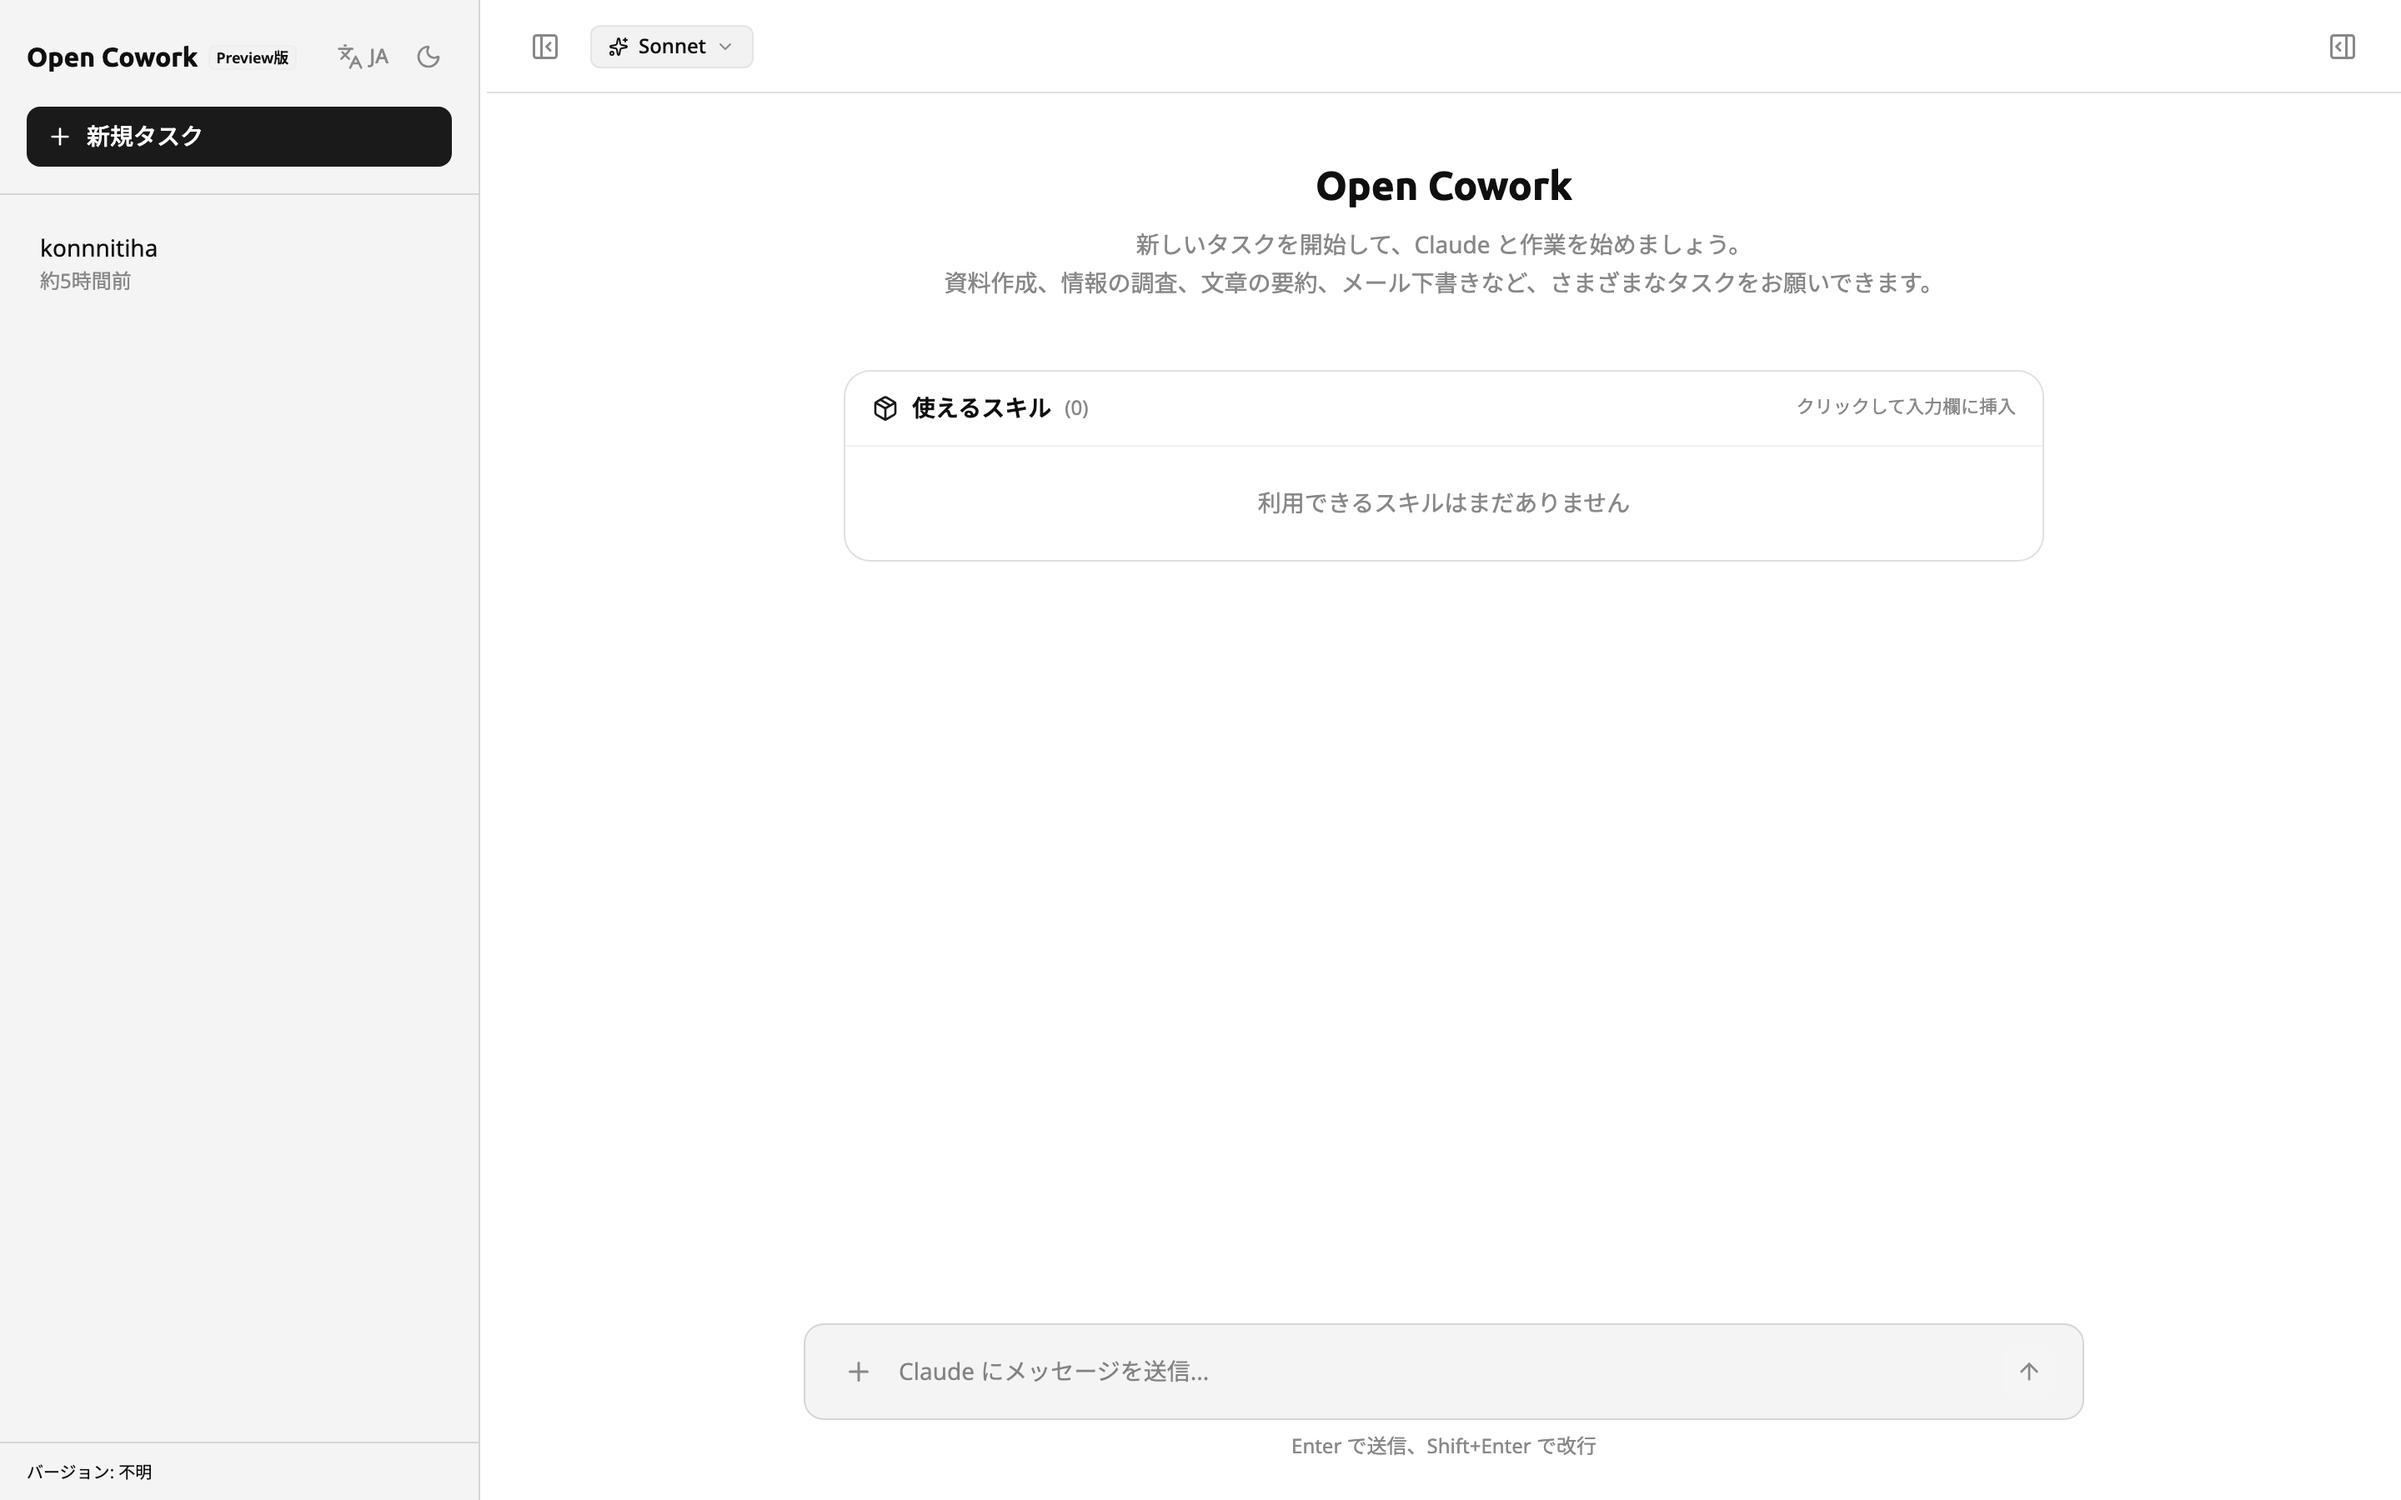
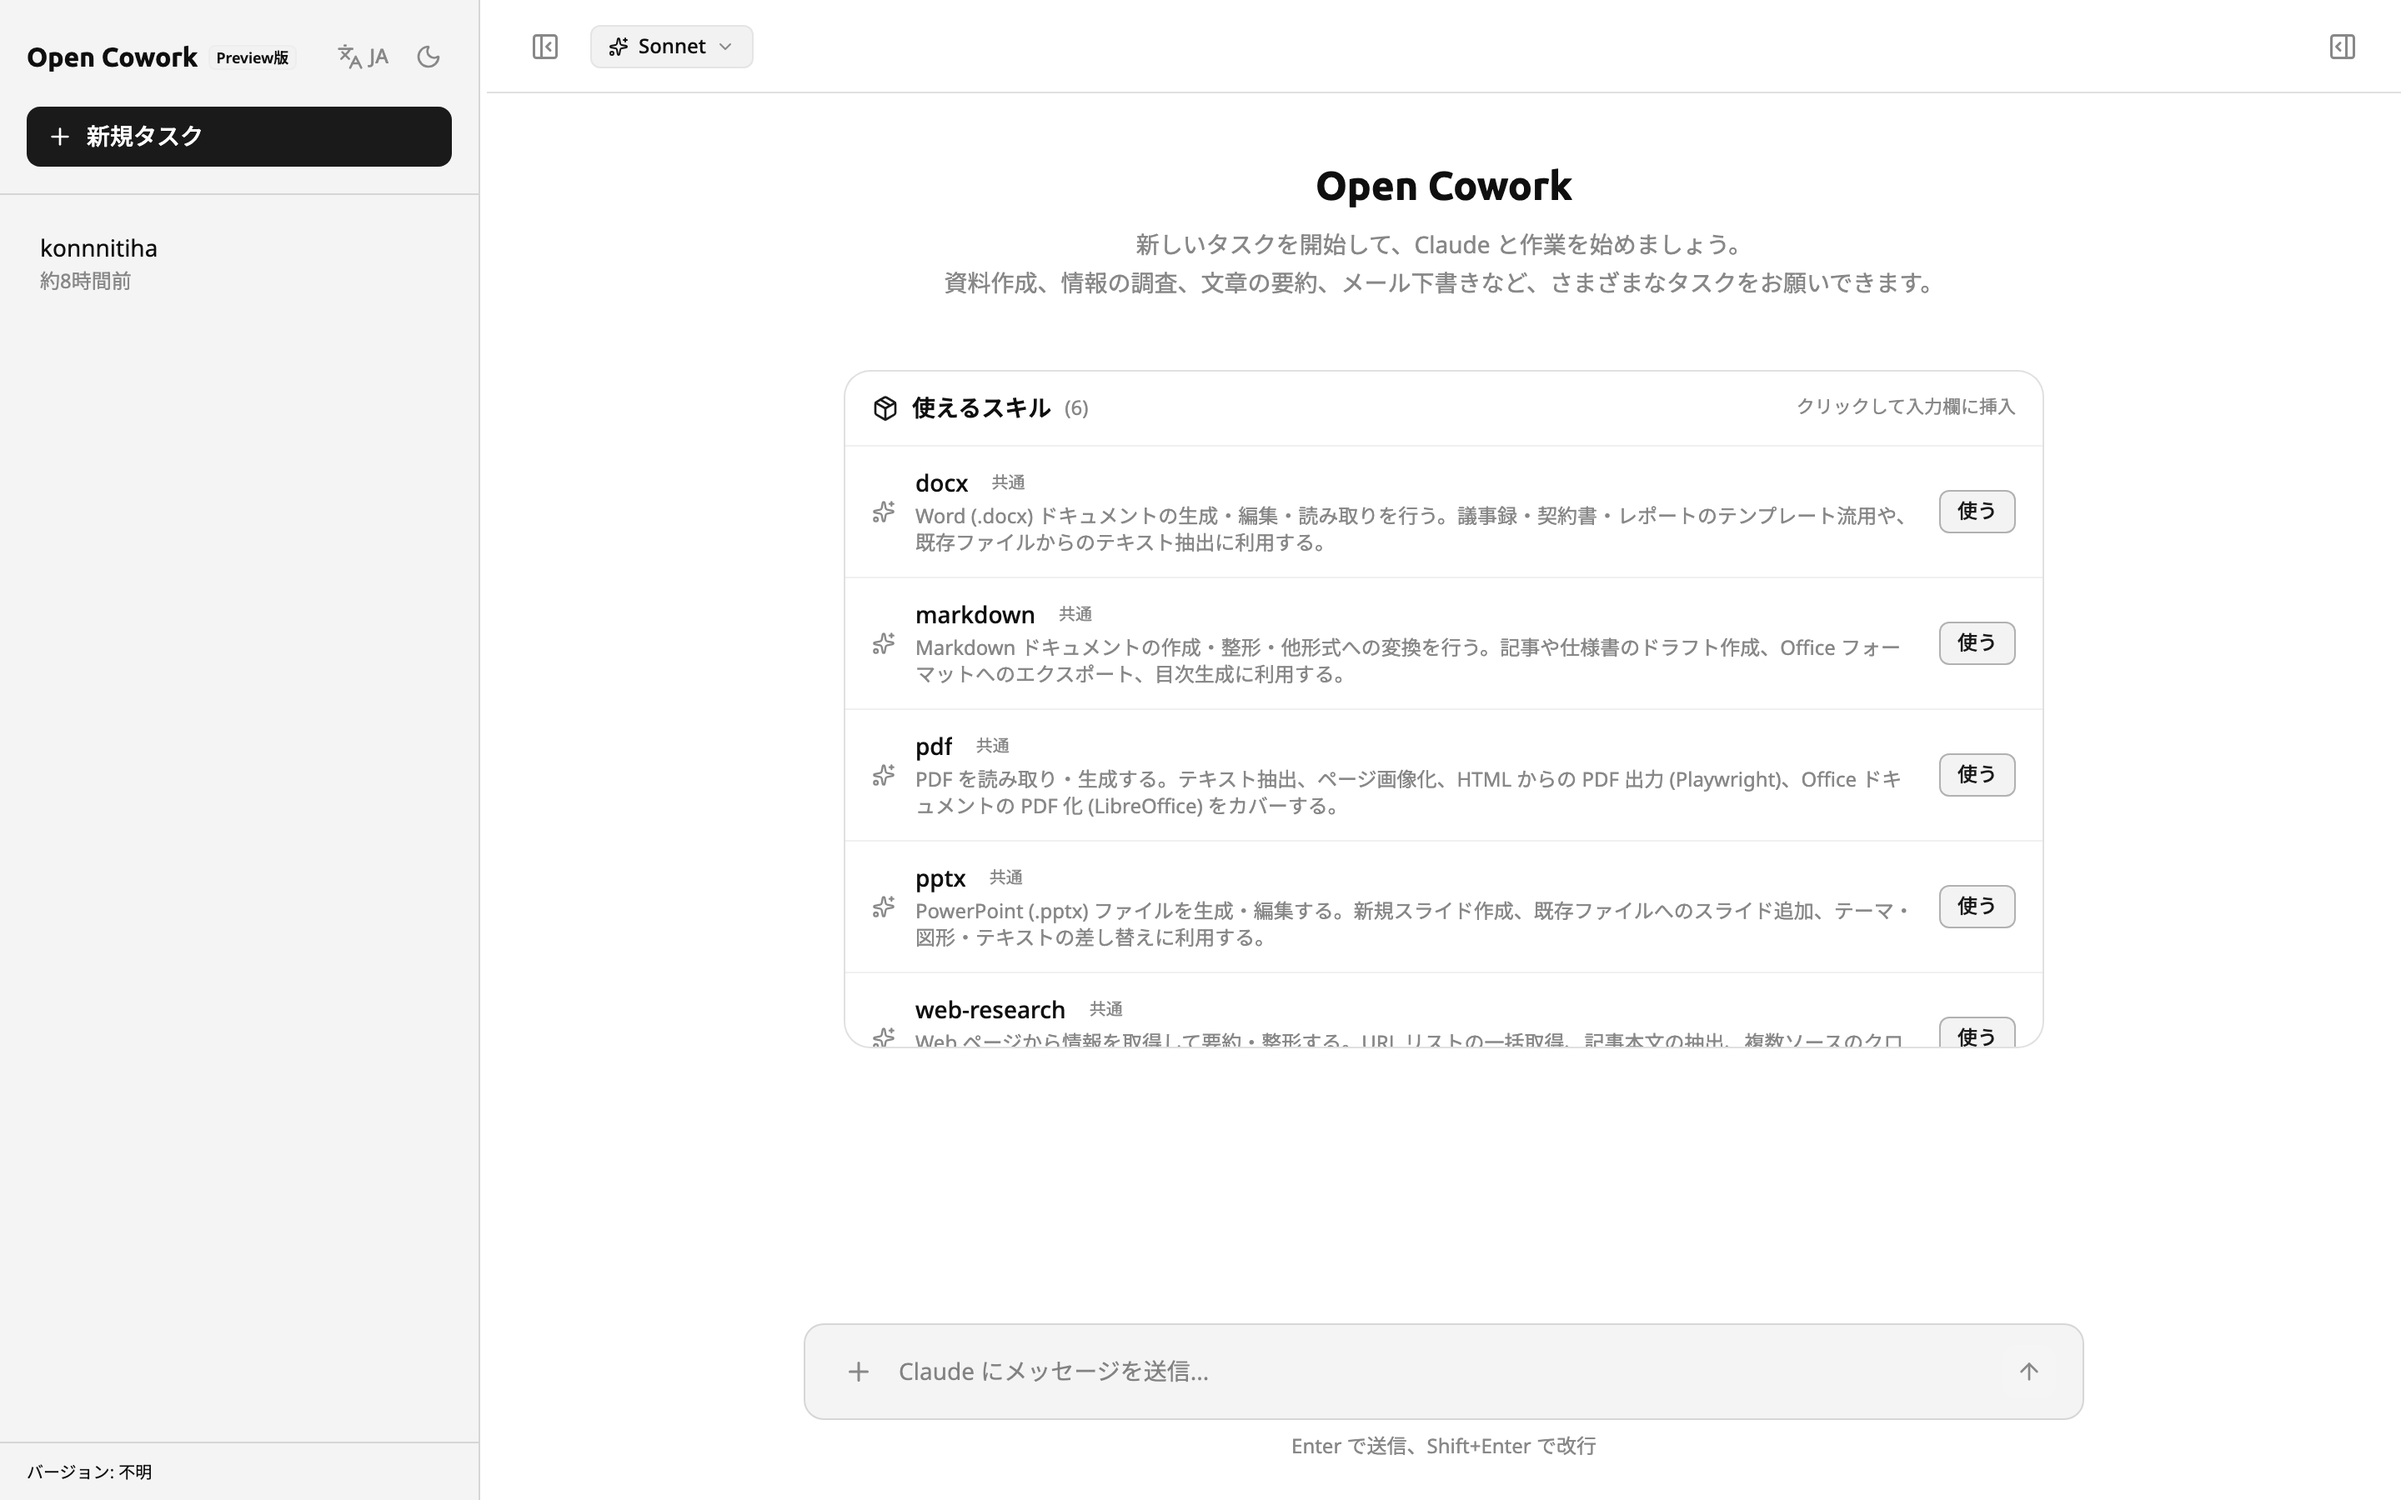
docs: ship 6 starter skills and refresh the README hero shot
- common-skills/skills/ にデフォルト同梱の 6 スキル (docx / markdown /
  pdf / pptx / web-research / xlsx) を追加。WelcomeScreen のスキル一覧が
  起動直後から表示される。
- .gitignore の skills 配下除外を解除し、common-skills/README.md を更新。
- scripts/screenshot.mjs はライトテーマ 1 枚のみ撮影するよう簡素化。
  README / README.ja.md からダーク版の画像を撤去。
- screenshot 用に @playwright/test をルート devDependencies に追加
  (ESM module 解決の都合で client/node_modules では届かないため)。

diff --git a/common-skills/skills/pdf/SKILL.md b/common-skills/skills/pdf/SKILL.md
@@ -1,0 +1,27 @@
+---
+name: pdf
+description: PDF を読み取り・生成する。テキスト抽出、ページ画像化、HTML からの PDF 出力 (Playwright)、Office ドキュメントの PDF 化 (LibreOffice) をカバーする。
+---
+
+# PDF スキル
+
+PDF ファイルの読み書きを行う。読み取りは `pdftotext` / `pdftoppm` (poppler-utils)、出力は Playwright (HTML → PDF) もしくは LibreOffice (Office → PDF) を使う。
+
+## 主な用途
+
+- 既存 PDF からのテキスト抽出 / ページごとの画像化
+- HTML 帳票 (markdown + テンプレート) を PDF として書き出す
+- docx / pptx / xlsx を PDF に変換
+
+## 推奨ツール
+
+| ツール | 用途 |
+|--------|------|
+| `pdftotext` | テキスト抽出 |
+| `pdftoppm` | ページを png にレンダリング |
+| Playwright (`page.pdf`) | サーバ側 API (`POST /api/export/pdf`) で HTML → PDF |
+| `soffice --headless --convert-to pdf` | Office → PDF |
+
+## 出力先
+
+生成した .pdf は `workdir/` 配下に保存する。

diff --git a/common-skills/skills/docx/SKILL.md b/common-skills/skills/docx/SKILL.md
@@ -1,0 +1,26 @@
+---
+name: docx
+description: Word (.docx) ドキュメントの生成・編集・読み取りを行う。議事録・契約書・レポートのテンプレート流用や、既存ファイルからのテキスト抽出に利用する。
+---
+
+# Word (docx) スキル
+
+Microsoft Word ドキュメント (.docx) を扱う。生成は Node.js (`docx`) と Python (`python-docx`) のどちらでも可能。
+
+## 主な用途
+
+- 議事録・週報・レポート等の構造化ドキュメント生成
+- 既存テンプレートの差し込み (フィールド置換)
+- docx → Markdown のテキスト抽出 (`pandoc` を呼ぶ)
+
+## 推奨ライブラリ
+
+| 言語 | ライブラリ | 用途 |
+|------|-----------|------|
+| Node.js | `docx` | コードベースでのドキュメント組み立て |
+| Python | `python-docx` | 既存 docx の段落・スタイル操作 |
+| CLI | `pandoc` | docx ↔ md / pdf 等の相互変換 |
+
+## 出力先
+
+生成した .docx は `workdir/` 配下に保存する。

diff --git a/common-skills/skills/pptx/SKILL.md b/common-skills/skills/pptx/SKILL.md
@@ -1,0 +1,25 @@
+---
+name: pptx
+description: PowerPoint (.pptx) ファイルを生成・編集する。新規スライド作成、既存ファイルへのスライド追加、テーマ・図形・テキストの差し替えに利用する。
+---
+
+# PowerPoint (pptx) スキル
+
+PowerPoint プレゼンテーション (.pptx) を生成・編集する。Node.js (`pptxgenjs`) と Python (`python-pptx`) を利用できる。
+
+## 主な用途
+
+- 提案資料・会議資料のスライド生成 (タイトル・本文・箇条書き・表)
+- 既存 pptx のテキスト差し替え・テンプレート流用
+- Markdown / アウトラインからの一括スライド化
+
+## 推奨ライブラリ
+
+| 言語 | ライブラリ | 用途 |
+|------|-----------|------|
+| Node.js | `pptxgenjs` | ゼロからのスライド生成 (グローバルインストール済み) |
+| Python | `python-pptx` | 既存テンプレートを開いて差分編集 |
+
+## 出力先
+
+生成した .pptx は `workdir/` 配下に保存する。

diff --git a/common-skills/skills/web-research/SKILL.md b/common-skills/skills/web-research/SKILL.md
@@ -1,0 +1,25 @@
+---
+name: web-research
+description: Web ページから情報を取得して要約・整形する。URL リストの一括取得、記事本文の抽出、複数ソースのクロスチェックに利用する。
+---
+
+# Web リサーチスキル
+
+Web 上の情報を取得・要約する。bash tool から `curl` / `lynx` などで取得し、本文抽出は Python (`markitdown` / `pandoc`) や Node.js で行う。
+
+## 主な用途
+
+- 仕様書・ブログ・公式ドキュメントの本文取得
+- 複数 URL の比較・差分整理
+- 引用元 (URL と取得日) を必ず明示するレポート作成
+
+## 推奨手順
+
+1. `curl -sSL <URL>` で HTML を取得し、ファイルに保存。
+2. `pandoc -f html -t markdown` か `markitdown` で本文を Markdown 化。
+3. 必要箇所だけ抜粋し、引用元 URL を付けて応答にまとめる。
+
+## 注意
+
+- ログインが必要なサイトはスコープ外。
+- レート制限とサイトの利用規約を尊重すること。

diff --git a/common-skills/skills/xlsx/SKILL.md b/common-skills/skills/xlsx/SKILL.md
@@ -1,0 +1,26 @@
+---
+name: xlsx
+description: Excel (.xlsx / .xlsm) を読み書きする。表データの集計・整形、ピボット風の縦持ち横持ち変換、テンプレートへの値差し込みに利用する。
+---
+
+# Excel (xlsx) スキル
+
+Microsoft Excel ワークブックを操作する。集計と整形は Python (`openpyxl` / `pandas`) を、書式維持の編集は `openpyxl` を使う。
+
+## 主な用途
+
+- 表計算データ (CSV / TSV / xlsx) の読み込みと変換
+- テンプレートシートへの値差し込み (数式・書式を維持)
+- LibreOffice 経由での pdf 化 (印刷物向け)
+
+## 推奨ライブラリ
+
+| 言語 | ライブラリ | 用途 |
+|------|-----------|------|
+| Python | `openpyxl` | 既存 .xlsx のセル単位編集 |
+| Python | `pandas` | データフレーム経由の集計・変換 |
+| CLI | `soffice` (LibreOffice) | xlsx → pdf 変換 / 数式再計算 |
+
+## 出力先
+
+生成した .xlsx は `workdir/` 配下に保存する。

diff --git a/common-skills/README.md b/common-skills/README.md
@@ -26,7 +26,15 @@ cp -R /path/to/your-skill "$DEST/your-skill"
 
 `docker compose up server` を再起動すると pi-coding-agent が拾う。
 
-## git 管理ポリシー
+## 同梱スキル
 
-- `.claude-plugin/plugin.json` と `skills/.gitkeep` のみコミットする
-- 各 skill 本体 (`skills/<name>/`) は ignore
+リポジトリにはサンプルとして以下の基本スキルを含めている (いずれも `.md` だけの軽量定義):
+
+- `docx` … Word ドキュメント生成・編集
+- `markdown` … Markdown 作成と他形式への変換
+- `pdf` … PDF の読み取り / 生成 / 変換
+- `pptx` … PowerPoint スライド生成
+- `web-research` … Web 情報の取得・要約
+- `xlsx` … Excel ワークブック編集と集計
+
+不要な場合はディレクトリごと削除して、サーバを再起動すれば一覧から消える。

diff --git a/common-skills/skills/markdown/SKILL.md b/common-skills/skills/markdown/SKILL.md
@@ -1,0 +1,25 @@
+---
+name: markdown
+description: Markdown ドキュメントの作成・整形・他形式への変換を行う。記事や仕様書のドラフト作成、Office フォーマットへのエクスポート、目次生成に利用する。
+---
+
+# Markdown スキル
+
+Markdown (.md) ドキュメントを扱う。記述は素の Markdown + GFM 拡張、変換は `pandoc` を中心に行う。
+
+## 主な用途
+
+- 仕様書 / 記事 / READMEのドラフト作成
+- Markdown → docx / pdf / html への変換 (pandoc)
+- 既存 md からの見出しツリー抽出・目次生成
+
+## 推奨ツール
+
+| ツール | 用途 |
+|--------|------|
+| `pandoc` | md ↔ docx / pdf / html 変換 |
+| `markitdown` | docx / xlsx / pptx → md 抽出 (Python パッケージ) |
+
+## 出力先
+
+生成した .md は `workdir/` 配下に保存する。

diff --git a/README.ja.md b/README.ja.md
@@ -5,11 +5,7 @@
 [`@earendil-works/pi-coding-agent`](https://github.com/earendil-works/pi/tree/main/packages/coding-agent) を利用したセルフホスト型の AI アシスタントチャット。ブラウザから Claude と対話し、各セッションを「タスク」として整理し、再利用可能なワークフローを「スキル」としてスラッシュ 1 つで呼び出せます。
 
 <p align="center">
-  <img src="docs/screenshots/landing-light.png" alt="Open Cowork — ライトテーマ" width="900" />
-  <br />
-  <em>Welcome screen (ライト / ダークテーマ)</em>
-  <br />
-  <img src="docs/screenshots/landing-dark.png" alt="Open Cowork — ダークテーマ" width="900" />
+  <img src="docs/screenshots/landing-light.png" alt="Open Cowork のホーム画面" width="900" />
 </p>
 
 ## 主な機能

diff --git a/README.md b/README.md
@@ -5,11 +5,7 @@
 A self-hosted AI assistant chat, powered by [`@earendil-works/pi-coding-agent`](https://github.com/earendil-works/pi/tree/main/packages/coding-agent). Chat with Claude in your browser, organise work in named tasks, and bundle reusable workflows as *skills* you can summon with a slash.
 
 <p align="center">
-  <img src="docs/screenshots/landing-light.png" alt="Open Cowork — light theme" width="900" />
-  <br />
-  <em>Welcome screen (light / dark themes)</em>
-  <br />
-  <img src="docs/screenshots/landing-dark.png" alt="Open Cowork — dark theme" width="900" />
+  <img src="docs/screenshots/landing-light.png" alt="Open Cowork welcome screen" width="900" />
 </p>
 
 ## Features
